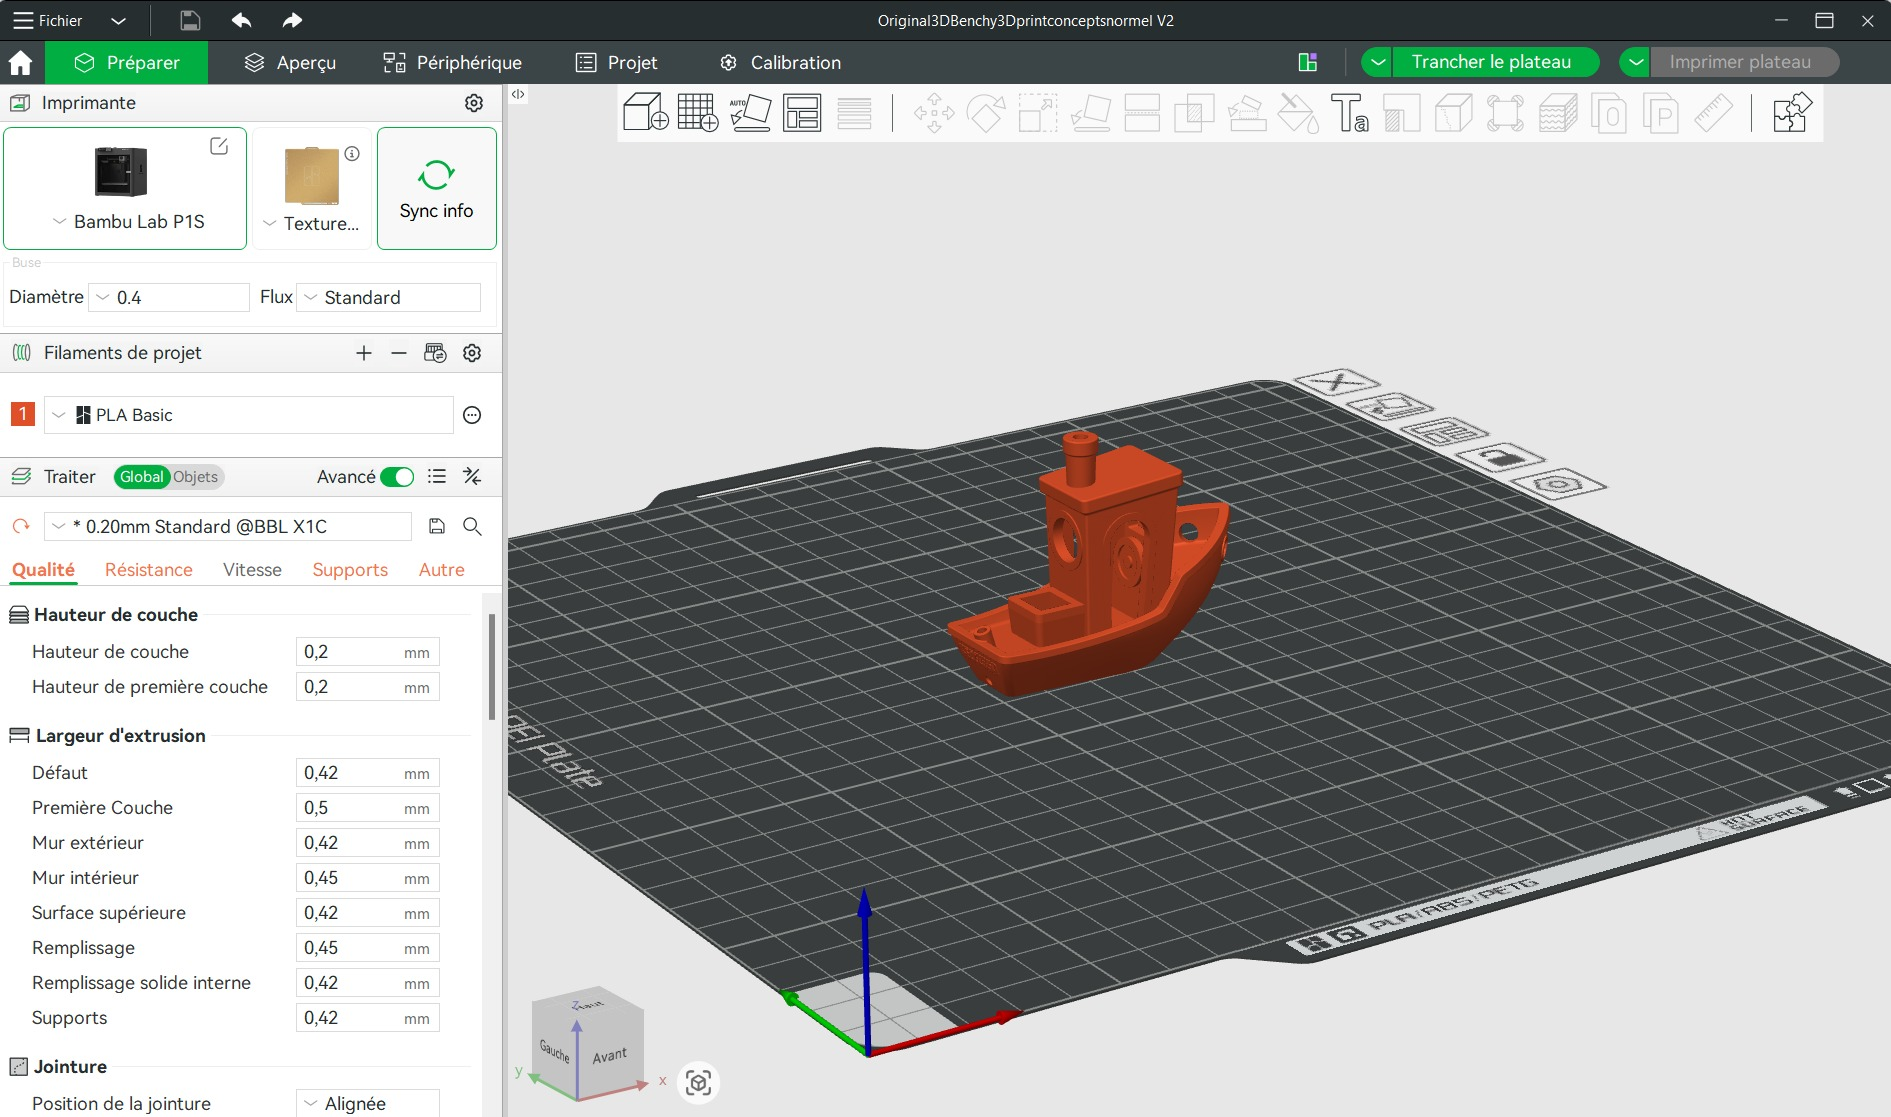
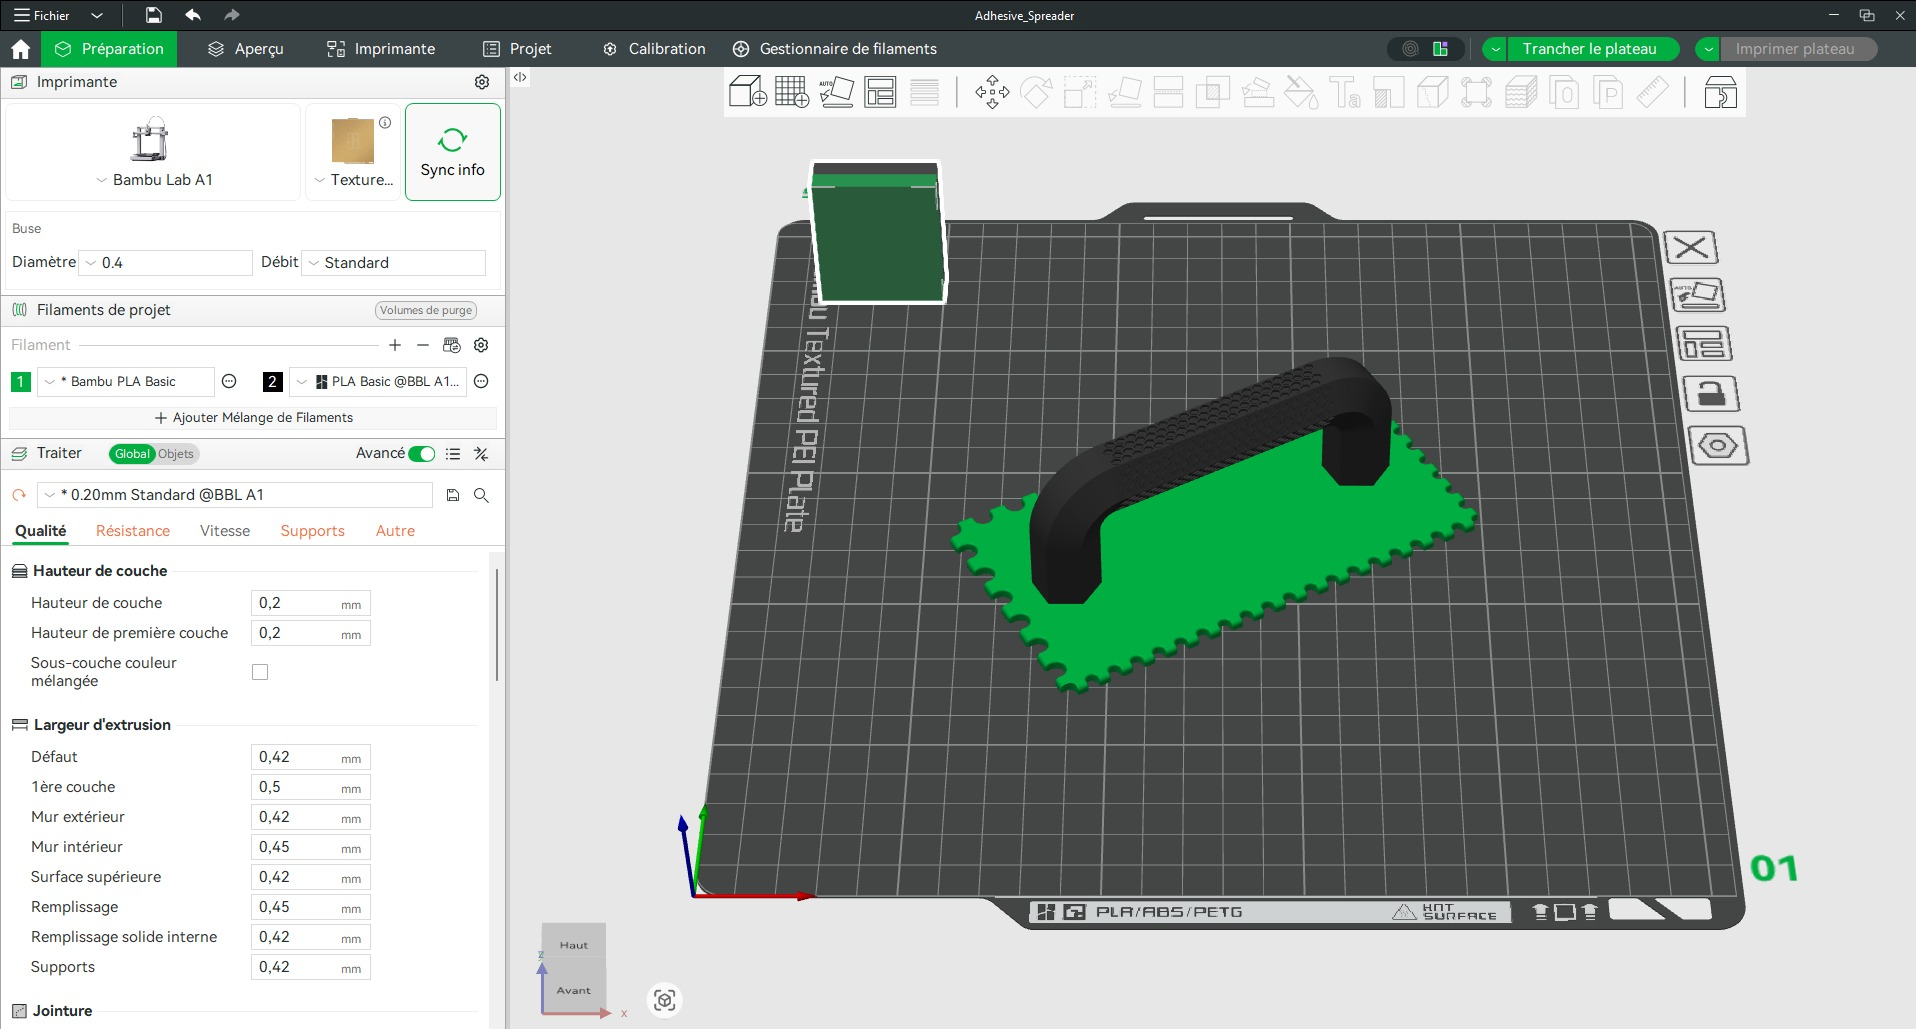
Remplace l'image Bambu Studio, ajoute la couverture, reformule un objectif
- assets/demi-journee-1/bambu-studio.jpg : remplacée par la nouvelle
  capture fournie (Bambu Lab A1, interface mise à jour). Repositionne
  les 5 points cliquables sur les éléments réels de cette interface ;
  le point "bibliothèque" pointe maintenant vers l'icône ronde
  MakerWorld plutôt que l'icône de grille voisine.
- assets/cover.jpg : image de couverture de la landing (lettrage
  Digital Factory sur carrelage), au format 21:9 recommandé.
- Objectifs (½ journée 01) : remplace "distinguer trois filaments" par
  un objectif de compréhension — qu'il existe différents filaments et
  pourquoi on n'utilise pas le même selon la pièce, plutôt qu'une
  discrimination fine des 3 matériaux.

Claude-Session: https://claude.ai/code/session_01JwbwpiPjXn1ePk8D2HQhJz

diff --git a/demi-journee-1.html b/demi-journee-1.html
@@ -34,7 +34,7 @@
   <p class="aide">À la fin de cette demi-journée, tu seras capable de :</p>
   <ul class="objectifs">
     <li>Reconnaître les principaux éléments d'une imprimante 3D et expliquer à quoi chacun sert.</li>
-    <li>Distinguer trois filaments — PLA, PETG, TPU — et dire ce qui les différencie au toucher et à l'usage.</li>
+    <li>Comprendre qu'il existe différents filaments et pourquoi on n'utilise pas le même selon la pièce à fabriquer.</li>
     <li>Identifier le rôle du logiciel de tranchage entre un fichier 3D et une machine.</li>
     <li>Citer des exemples d'objets imprimés en 3D utilisés dans le métier du carrelage.</li>
   </ul>
@@ -100,11 +100,11 @@
     <div class="zc-ph"><svg viewBox="0 0 24 24" fill="none" stroke="currentColor" stroke-width="1.7" stroke-linecap="round" stroke-linejoin="round" aria-hidden="true"><rect x="3" y="3" width="18" height="18" rx="2" ry="2"/><circle cx="8.5" cy="8.5" r="1.5"/><polyline points="21 15 16 10 5 21"/></svg><b>Interface Bambu Studio</b><small>assets/demi-journee-1/bambu-studio.jpg</small></div>
     <img src="assets/demi-journee-1/bambu-studio.jpg" alt="Interface du logiciel Bambu Studio" onerror="this.remove()">
     <button class="hotspot" style="left:50%; top:8%" onclick="ouvrePoint('tranchage')">?</button>
-    <button class="hotspot" style="left:75%; top:76%" onclick="ouvrePoint('espace')">1</button>
-    <button class="hotspot" style="left:4%; top:17%" onclick="ouvrePoint('imprimante')">2</button>
-    <button class="hotspot" style="left:11%; top:37%" onclick="ouvrePoint('filament')">3</button>
-    <button class="hotspot" style="left:81%; top:6%" onclick="ouvrePoint('preparer')">4</button>
-    <button class="hotspot" style="left:70%; top:6%" onclick="ouvrePoint('biblio')">5</button>
+    <button class="hotspot" style="left:80%; top:73%" onclick="ouvrePoint('espace')">1</button>
+    <button class="hotspot" style="left:2%; top:14%" onclick="ouvrePoint('imprimante')">2</button>
+    <button class="hotspot" style="left:2%; top:37%" onclick="ouvrePoint('filament')">3</button>
+    <button class="hotspot" style="left:88%; top:5%" onclick="ouvrePoint('preparer')">4</button>
+    <button class="hotspot" style="left:77%; top:4%" onclick="ouvrePoint('biblio')">5</button>
   </div>
   <p class="zc-legende">? — Qu'est-ce que le tranchage ? · 1 — Espace de travail · 2 — Choix de l'imprimante · 3 — Filament · 4 — Préparer le fichier · 5 — Bibliothèque</p>
   <p class="aide">Les réglages du tranchage influencent la qualité, la vitesse et la solidité de l'impression. Dans cet atelier, tout est préconfiguré pour assurer un bon résultat.</p>

diff --git a/index.html b/index.html
@@ -21,7 +21,7 @@
         <b>Image de couverture</b>
         <small>assets/cover.jpg — idéal 21:9, ≥ 1800×770px</small>
       </div>
-      <img src="assets/cover.jpg" alt="" loading="eager" onerror="this.remove()">
+      <img src="assets/cover.jpg" alt="Lettrage « Digital Factory » en carreaux de faïence" loading="eager" onerror="this.remove()">
     </div>
   </div>
 
